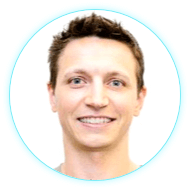
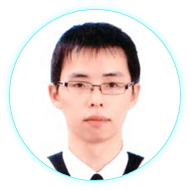
team update

diff --git a/stylesheets/style.min.css b/stylesheets/style.min.css
@@ -1,1 +1,1 @@
-html{font-family:PingFangSC, Microsoft JhengHei, sans-serif;-ms-text-size-adjust:100%;-webkit-text-size-adjust:100%}body{margin:0}article,aside,details,figcaption,figure,footer,header,hgroup,main,menu,nav,section,summary{display:block}audio,canvas,progress,video{display:inline-block;vertical-align:baseline}audio:not([controls]){display:none;height:0}[hidden],template{display:none}a{background-color:transparent}a:active,a:hover{outline:0}abbr[title]{border-bottom:1px dotted}b,strong{font-weight:bold}dfn{font-style:italic}h1{font-size:2em;margin:0.67em 0}mark{background:#ff0;color:#000}small{font-size:80%}sub,sup{font-size:75%;line-height:0;position:relative;vertical-align:baseline}sup{top:-0.5em}sub{bottom:-0.25em}img{border:0}svg:not(:root){overflow:hidden}figure{margin:1em 40px}hr{box-sizing:content-box;height:0}pre{overflow:auto}code,kbd,pre,samp{font-family:monospace, monospace;font-size:1em}button,input,optgroup,select,textarea{color:inherit;font:inherit;margin:0}button{overflow:visible}button,select{text-transform:none}button,html input[type="button"],input[type="reset"],input[type="submit"]{-webkit-appearance:button;cursor:pointer}button[disabled],html input[disabled]{cursor:default}button::-moz-focus-inner,input::-moz-focus-inner{border:0;padding:0}input{line-height:normal}input[type="checkbox"],input[type="radio"]{box-sizing:border-box;padding:0}input[type="number"]::-webkit-inner-spin-button,input[type="number"]::-webkit-outer-spin-button{height:auto}input[type="search"]{-webkit-appearance:textfield;box-sizing:content-box}input[type="search"]::-webkit-search-cancel-button,input[type="search"]::-webkit-search-decoration{-webkit-appearance:none}fieldset{border:1px solid #c0c0c0;margin:0 2px;padding:0.35em 0.625em 0.75em}legend{border:0;padding:0}textarea{overflow:auto}optgroup{font-weight:bold}table{border-collapse:collapse;border-spacing:0}td,th{padding:0}html,body{width:100%;min-width:320px;background-color:#eef2f5;-webkit-text-size-adjust:none;-webkit-overflow-scrolling:touch}body{color:#606060;font-size:14px;line-height:1.8}.wrap{padding-top:280px}.wrap>.cont{position:relative;width:100%;max-width:840px;margin:0 auto}.wrap>.cont>section{padding:0 30px 1.5em}.main-bg{position:absolute;top:0;left:0;width:100%;height:114vh;background:#000a29 url("../img/head.jpg") no-repeat center -20px/1000px 500px;overflow:hidden}.main-bg:before,.main-bg:after{content:"";width:100%;height:100%;position:absolute;top:1px;left:0}.main-bg:before{background:url("../img/head-star.png") no-repeat center top/1500px 750px;animation:head-star 12s linear infinite}.main-bg:after{background:url("../img/head-mask.png") no-repeat center bottom/812px 406px}.main-bg>h3{text-indent:100%;white-space:nowrap;width:98px;height:26px;background:url(../img/logo.svg) no-repeat 0 0/91px 24px;overflow:hidden;margin:0;position:absolute;top:15px;left:15px}.main-bg .lang{width:100%;max-width:840px;position:relative;z-index:1;margin:auto;text-align:right;font-size:12px;line-height:45px}.main-bg .lang.zh{text-align:right;font-size:13px}.main-bg .lang .en,.main-bg .lang.zh .zh{display:none}.main-bg .lang.zh .en{display:inline-block}.main-bg .lang a{width:45px;line-height:30px;height:30px;text-align:center;display:inline-block;text-align:center;color:#efefef;border-radius:2px;text-decoration:none;border:1px solid rgba(255,255,255,0.4);cursor:pointer;margin:0 10px}@keyframes head-star{0%{opacity:.2;transform:scale(0.8)}25%{opacity:.8;transform:scale(0.9)}50%{opacity:1;transform:scale(1)}75%{opacity:.6;transform:scale(1.1)}100%{opacity:.1;transform:scale(1.2)}}.main,.bottom-block{color:#fff}.main{position:relative}.main>.main-text{max-width:450px;margin:auto}.main h1{font-size:32px;font-weight:normal;line-height:1.42;text-align:center;text-shadow:0 0 1px rgba(255,255,255,0.5),0 1px 3px #5a3aa9;margin:0}.main h1>span{display:block}.main p{font-size:16px}.btn-group{display:flex;justify-content:space-between;max-width:350px;padding:.5em 0 1em;margin:0 auto}.btn-group>.Wpaper,.btn-group>.contact{color:#fff;font-size:16px;line-height:50px;text-decoration:none;text-align:center;width:160px;height:50px;border-radius:3px;-webkit-tap-highlight-color:transparent}.btn-group>.Wpaper{background-color:#ff5000;box-shadow:0 1px 1px rgba(0,0,0,0.4),0 2px 6px 0 rgba(0,0,0,0.4);position:relative}.btn-group>.Wpaper:before{content:"";width:100%;height:100%;background-image:linear-gradient(282deg, #ff8f00 0%, #ff5000 100%);border-radius:3px;position:absolute;top:0;left:0;transition:opacity 0.3s}.btn-group>.Wpaper:hover:before{opacity:0}.btn-group>.Wpaper>span{position:relative}.btn-group>.contact{background-color:transparent;box-shadow:0 0 0 1px #fff inset;margin-left:20px;transition:background-color 0.3s}.btn-group>.contact:hover{background-color:rgba(255,255,255,0.15)}.feature>.feature-item{min-height:112px;background-color:#fff;box-shadow:0 3px 12px 0 rgba(161,172,183,0.5);border-radius:8px;padding:10px 15px 10px 136px;position:relative}.feature>.feature-item+.feature-item{margin-top:1em}.feature>.feature-item>.f-icon{width:106px;height:119px;position:absolute;top:50%;left:15px;margin-top:-60px}.feature>.feature-item>h2{font-size:21px;color:#333;margin:0}.feature>.feature-item>p{text-align:left;margin:0}.about-ae>h2,.platform-text>h2,.team>h2{color:#0db0c9;font-size:24px;text-align:center;margin:.5em 0}.about-ae{max-width:750px;margin:auto}.stream-vid{overflow:hidden;box-shadow:0 3px 12px 0 rgba(161,172,183,0.5);margin-bottom:1.5em;position:relative;z-index:2}.video-box{height:0;background-color:#444;padding-bottom:45.2381%}.video-box>.ae-logo{width:130px;filter:drop-shadow(0px 1px 2px rgba(0,0,0,0.5));position:absolute;top:10px;left:10px}.video-box>video{width:100%;position:absolute;left:0;bottom:0}.logo-ae-uwin{max-width:550px;height:229px;display:flex;flex-direction:column;justify-content:center;margin:0 auto;position:relative;z-index:1}.logo-ae-uwin:before{content:"";width:100%;height:340px;background:url("../img/poly-01.png") no-repeat center/360px 335px;position:absolute;top:-70px;left:0;z-index:-1}.logo-ae-uwin>img{display:block;margin:20px auto}.platform{position:relative;z-index:2}.platform>.device{width:100%;object-fit:contain}.platform-text{padding-top:1.5em}.platform-text strong{color:#0d2c46}.platform-text>.ico-list{display:flex;justify-content:space-between;max-width:360px;padding-left:0;margin:1em auto}.platform-text>.ico-list>li{width:45px;height:45px;border-radius:50%;display:flex;justify-content:center;align-items:center;background-color:#fff;border:solid 1px rgba(81,229,243,0.7);box-shadow:0 0 8px 0 rgba(103,240,255,0.6)}.platform-text>.ico-list>.etc{color:#50b7cc;width:100px;background-color:transparent;border:0;box-shadow:none}.exchange{position:relative;margin-bottom:25px}.exchange .bg-wave{width:100%}.exchange .exc{position:absolute;width:310px;height:80px;top:50%;left:50%;border-radius:8px;transform:translateX(-50%) translateY(-50%);background:rgba(255,255,255,0.9) url(../img/exchange.png) center/85% no-repeat;box-shadow:0 2px 3px 0 rgba(159,159,159,0.2),0 5px 30px 0 rgba(163,195,221,0.5)}.team{width:100%;max-width:840px;margin:0 auto}.team .team-member{width:100%;display:flex;flex-wrap:wrap;justify-content:space-between;margin-bottom:50px}.team .team-item{text-align:center;width:100%;margin-bottom:30px}.team .team-item h3{font-size:21px;font-weight:normal;margin:0;line-height:1.1;color:#333}.team .team-item p{margin:0;font-size:14px;color:#606060}.ptr-logos{position:relative;display:block;width:100%;max-width:840px;margin:0 auto}.bottom-block{color:#fff;background:url("../img/footer-bg.png") no-repeat center bottom/1100px 502px}.bottom-block>.bottom-cont{text-align:center;max-width:840px;padding:1.5em 30px 0;margin:0 auto}.bottom-block>.bottom-cont>.footer-icon{vertical-align:top;width:200px;height:205px}.bottom-block>.bottom-cont>h2{font-size:20px;text-align:left}.bottom-block>.copy{color:rgba(255,255,255,0.8);font-weight:100;text-align:center;width:100%;padding:15px 0}@media screen and (max-width: 320px){.main-bg{height:126vh}.platform-text>.ico-list{margin:1em -20px}}@media screen and (min-width: 400px){.bottom-block>.bottom-cont{padding-bottom:2.5em}.exchange .exc{width:350px;height:90px}}@media screen and (min-width: 480px){.wrap{padding-top:190px}.main-bg{height:186vh;background-size:700px 350px}.main-bg .lang{line-height:60px}.main h1>span{display:inline}.feature>.feature-item{padding:15px 15px 15px 136px}.platform{text-align:center}.platform>.device{max-width:500px}.platform-text>p{text-align:left}.bottom-block{background-size:1000px 456px}.exchange .exc{width:525px;height:135px}.team .team-item{width:calc(100% / 3)}}@media screen and (min-width: 820px){.main-bg{height:0;padding-bottom:82%}.main-bg:after{background-size:100% auto}}@media screen and (min-width: 1024px){h2{font-weight:normal}.main-bg{background-position:center top;background-size:90% auto}.main-bg>h3{width:117px;height:31px;background-size:117px 31px;top:20px;left:50%;margin-left:-420px}.wrap{padding-top:26.5%}.wrap>.cont{max-width:840px}.wrap>.cont>section{padding:0 0 3.5em}.main h1{text-shadow:0 0 1px rgba(255,255,255,0.5),0 0 4px rgba(90,58,169,0.6)}.main p{font-weight:300}.feature{display:flex;justify-content:space-between}.feature>.feature-item{text-align:center;width:200px;padding:40px 25px}.feature>.feature-item+.feature-item{margin-top:0}.feature>.feature-item>.f-icon{vertical-align:top;margin-top:0;position:initial}.feature>.feature-item>h2{margin:14px 0}.stream-vid{max-width:840px;border-radius:8px;margin:0 0 1.5em}.cont>section.logo-ae-uwin{padding:1.5em 0 .5em}.logo-ae-uwin:before{background-size:501px 466px;height:466px;top:-120px}.platform{display:flex;justify-content:space-between}.bottom-block{background-size:1200px 548px}.bottom-block>.bottom-cont>.footer-icon{width:300px;height:307px}.bottom-block>.bottom-cont>h2{font-size:24px;text-align:center;margin:5px 0 55px 0}.bottom-block>.bottom-cont>h2>span{display:block}}@media screen and (min-width: 600px) and (max-width: 1024px) and (orientation: portrait){.main-bg{height:70vh}}@media screen and (min-width: 1200px){.main-bg{padding-bottom:1000px}.cont>section.main{padding-bottom:1.5em}.bottom-block{background-size:cover}.bottom-block>.bottom-cont{padding-bottom:310px}}@media screen and (min-width: 1366px){.main-bg:before{background-size:cover}}@media screen and (min-width: 2000px){body{max-width:1920px;margin:0 auto}}
+html{font-family:PingFangSC, Microsoft JhengHei, sans-serif;-ms-text-size-adjust:100%;-webkit-text-size-adjust:100%}body{margin:0}article,aside,details,figcaption,figure,footer,header,hgroup,main,menu,nav,section,summary{display:block}audio,canvas,progress,video{display:inline-block;vertical-align:baseline}audio:not([controls]){display:none;height:0}[hidden],template{display:none}a{background-color:transparent}a:active,a:hover{outline:0}abbr[title]{border-bottom:1px dotted}b,strong{font-weight:bold}dfn{font-style:italic}h1{font-size:2em;margin:0.67em 0}mark{background:#ff0;color:#000}small{font-size:80%}sub,sup{font-size:75%;line-height:0;position:relative;vertical-align:baseline}sup{top:-0.5em}sub{bottom:-0.25em}img{border:0}svg:not(:root){overflow:hidden}figure{margin:1em 40px}hr{box-sizing:content-box;height:0}pre{overflow:auto}code,kbd,pre,samp{font-family:monospace, monospace;font-size:1em}button,input,optgroup,select,textarea{color:inherit;font:inherit;margin:0}button{overflow:visible}button,select{text-transform:none}button,html input[type="button"],input[type="reset"],input[type="submit"]{-webkit-appearance:button;cursor:pointer}button[disabled],html input[disabled]{cursor:default}button::-moz-focus-inner,input::-moz-focus-inner{border:0;padding:0}input{line-height:normal}input[type="checkbox"],input[type="radio"]{box-sizing:border-box;padding:0}input[type="number"]::-webkit-inner-spin-button,input[type="number"]::-webkit-outer-spin-button{height:auto}input[type="search"]{-webkit-appearance:textfield;box-sizing:content-box}input[type="search"]::-webkit-search-cancel-button,input[type="search"]::-webkit-search-decoration{-webkit-appearance:none}fieldset{border:1px solid #c0c0c0;margin:0 2px;padding:0.35em 0.625em 0.75em}legend{border:0;padding:0}textarea{overflow:auto}optgroup{font-weight:bold}table{border-collapse:collapse;border-spacing:0}td,th{padding:0}html,body{width:100%;min-width:320px;background-color:#eef2f5;-webkit-text-size-adjust:none;-webkit-overflow-scrolling:touch}body{color:#606060;font-size:14px;line-height:1.8}.wrap{padding-top:280px}.wrap>.cont{position:relative;width:100%;max-width:840px;margin:0 auto}.wrap>.cont>section{padding:0 30px 1.5em}.main-bg{position:absolute;top:0;left:0;width:100%;height:114vh;background:#000a29 url("../img/head.jpg") no-repeat center -20px/1000px 500px;overflow:hidden}.main-bg:before,.main-bg:after{content:"";width:100%;height:100%;position:absolute;top:1px;left:0}.main-bg:before{background:url("../img/head-star.png") no-repeat center top/1500px 750px;animation:head-star 12s linear infinite}.main-bg:after{background:url("../img/head-mask.png") no-repeat center bottom/812px 406px}.main-bg>h3{text-indent:100%;white-space:nowrap;width:98px;height:26px;background:url(../img/logo.svg) no-repeat 0 0/91px 24px;overflow:hidden;margin:0;position:absolute;top:15px;left:15px}.main-bg .lang{width:100%;max-width:840px;position:relative;z-index:1;margin:auto;text-align:right;font-size:12px;line-height:45px}.main-bg .lang.zh{text-align:right;font-size:13px}.main-bg .lang .en,.main-bg .lang.zh .zh{display:none}.main-bg .lang.zh .en{display:inline-block}.main-bg .lang a{width:45px;line-height:30px;height:30px;text-align:center;display:inline-block;text-align:center;color:#efefef;border-radius:2px;text-decoration:none;border:1px solid rgba(255,255,255,0.4);cursor:pointer;margin:0 10px}@keyframes head-star{0%{opacity:.2;transform:scale(0.8)}25%{opacity:.8;transform:scale(0.9)}50%{opacity:1;transform:scale(1)}75%{opacity:.6;transform:scale(1.1)}100%{opacity:.1;transform:scale(1.2)}}.main,.bottom-block{color:#fff}.main{position:relative}.main>.main-text{max-width:450px;margin:auto}.main h1{font-size:32px;font-weight:normal;line-height:1.42;text-align:center;text-shadow:0 0 1px rgba(255,255,255,0.5),0 1px 3px #5a3aa9;margin:0}.main h1>span{display:block}.main p{font-size:16px}.btn-group{display:flex;justify-content:space-between;max-width:350px;padding:.5em 0 1em;margin:0 auto}.btn-group>.Wpaper,.btn-group>.contact{color:#fff;font-size:16px;line-height:50px;text-decoration:none;text-align:center;width:160px;height:50px;border-radius:3px;-webkit-tap-highlight-color:transparent}.btn-group>.Wpaper{background-color:#ff5000;box-shadow:0 1px 1px rgba(0,0,0,0.4),0 2px 6px 0 rgba(0,0,0,0.4);position:relative}.btn-group>.Wpaper:before{content:"";width:100%;height:100%;background-image:linear-gradient(282deg, #ff8f00 0%, #ff5000 100%);border-radius:3px;position:absolute;top:0;left:0;transition:opacity 0.3s}.btn-group>.Wpaper:hover:before{opacity:0}.btn-group>.Wpaper>span{position:relative}.btn-group>.contact{background-color:transparent;box-shadow:0 0 0 1px #fff inset;margin-left:20px;transition:background-color 0.3s}.btn-group>.contact:hover{background-color:rgba(255,255,255,0.15)}.feature>.feature-item{min-height:112px;background-color:#fff;box-shadow:0 3px 12px 0 rgba(161,172,183,0.5);border-radius:8px;padding:10px 15px 10px 136px;position:relative}.feature>.feature-item+.feature-item{margin-top:1em}.feature>.feature-item>.f-icon{width:106px;height:119px;position:absolute;top:50%;left:15px;margin-top:-60px}.feature>.feature-item>h2{font-size:21px;color:#333;margin:0}.feature>.feature-item>p{text-align:left;margin:0}.about-ae>h2,.platform-text>h2,.team>h2{color:#0db0c9;font-size:24px;text-align:center;margin:.5em 0}.about-ae{max-width:750px;margin:auto}.stream-vid{overflow:hidden;box-shadow:0 3px 12px 0 rgba(161,172,183,0.5);margin-bottom:1.5em;position:relative;z-index:2}.video-box{height:0;background-color:#444;padding-bottom:45.2381%}.video-box>.ae-logo{width:130px;filter:drop-shadow(0px 1px 2px rgba(0,0,0,0.5));position:absolute;top:10px;left:10px}.video-box>video{width:100%;position:absolute;left:0;bottom:0}.logo-ae-uwin{max-width:550px;height:229px;display:flex;flex-direction:column;justify-content:center;margin:0 auto;position:relative;z-index:1}.logo-ae-uwin:before{content:"";width:100%;height:340px;background:url("../img/poly-01.png") no-repeat center/360px 335px;position:absolute;top:-70px;left:0;z-index:-1}.logo-ae-uwin>img{display:block;margin:20px auto}.platform{position:relative;z-index:2}.platform>.device{width:100%;object-fit:contain}.platform-text{padding-top:1.5em}.platform-text strong{color:#0d2c46}.platform-text>.ico-list{display:flex;justify-content:space-between;max-width:360px;padding-left:0;margin:1em auto}.platform-text>.ico-list>li{width:45px;height:45px;border-radius:50%;display:flex;justify-content:center;align-items:center;background-color:#fff;border:solid 1px rgba(81,229,243,0.7);box-shadow:0 0 8px 0 rgba(103,240,255,0.6)}.platform-text>.ico-list>.etc{color:#50b7cc;width:100px;background-color:transparent;border:0;box-shadow:none}.exchange{position:relative;margin-bottom:25px}.exchange .bg-wave{width:100%}.exchange .exc{position:absolute;width:310px;height:80px;top:50%;left:50%;border-radius:8px;transform:translateX(-50%) translateY(-50%);background:rgba(255,255,255,0.9) url(../img/exchange.png) center/85% no-repeat;box-shadow:0 2px 3px 0 rgba(159,159,159,0.2),0 5px 30px 0 rgba(163,195,221,0.5)}.team{width:100%;max-width:840px;margin:0 auto}.team .team-member{width:100%;display:flex;flex-wrap:wrap;justify-content:space-between;margin-bottom:50px}.team .team-item{text-align:center;width:100%;margin-bottom:30px}.team .team-item h3{font-size:21px;font-weight:normal;margin:0;line-height:1.1;color:#333}.team .team-item p{margin:0;font-size:14px;color:#606060}.team .team-item .team-pic{max-width:180px}.ptr-logos{position:relative;display:block;width:100%;max-width:840px;margin:0 auto}.bottom-block{color:#fff;background:url("../img/footer-bg.png") no-repeat center bottom/1100px 502px}.bottom-block>.bottom-cont{text-align:center;max-width:840px;padding:1.5em 30px 0;margin:0 auto}.bottom-block>.bottom-cont>.footer-icon{vertical-align:top;width:200px;height:205px}.bottom-block>.bottom-cont>h2{font-size:20px;text-align:left}.bottom-block>.copy{color:rgba(255,255,255,0.8);font-weight:100;text-align:center;width:100%;padding:15px 0}@media screen and (max-width: 320px){.main-bg{height:126vh}.platform-text>.ico-list{margin:1em -20px}}@media screen and (min-width: 400px){.bottom-block>.bottom-cont{padding-bottom:2.5em}.exchange .exc{width:350px;height:90px}}@media screen and (min-width: 480px){.wrap{padding-top:190px}.main-bg{height:186vh;background-size:700px 350px}.main-bg .lang{line-height:60px}.main h1>span{display:inline}.feature>.feature-item{padding:15px 15px 15px 136px}.platform{text-align:center}.platform>.device{max-width:500px}.platform-text>p{text-align:left}.bottom-block{background-size:1000px 456px}.exchange .exc{width:525px;height:135px}.team .team-item{width:calc(100% / 3)}.team .team-item.team-ceo{width:100%}.team .team-item.team-ceo .team-pic{max-width:240px}.team .team-item.team-ceo h3{font-size:21px}.team .team-item.team-ceo p{font-size:14px}}@media screen and (min-width: 820px){.main-bg{height:0;padding-bottom:82%}.main-bg:after{background-size:100% auto}}@media screen and (min-width: 1024px){h2{font-weight:normal}.main-bg{background-position:center top;background-size:90% auto}.main-bg>h3{width:117px;height:31px;background-size:117px 31px;top:20px;left:50%;margin-left:-420px}.wrap{padding-top:26.5%}.wrap>.cont{max-width:840px}.wrap>.cont>section{padding:0 0 3.5em}.main h1{text-shadow:0 0 1px rgba(255,255,255,0.5),0 0 4px rgba(90,58,169,0.6)}.main p{font-weight:300}.feature{display:flex;justify-content:space-between}.feature>.feature-item{text-align:center;width:200px;padding:40px 25px}.feature>.feature-item+.feature-item{margin-top:0}.feature>.feature-item>.f-icon{vertical-align:top;margin-top:0;position:initial}.feature>.feature-item>h2{margin:14px 0}.stream-vid{max-width:840px;border-radius:8px;margin:0 0 1.5em}.cont>section.logo-ae-uwin{padding:1.5em 0 .5em}.logo-ae-uwin:before{background-size:501px 466px;height:466px;top:-120px}.platform{display:flex;justify-content:space-between}.bottom-block{background-size:1200px 548px}.bottom-block>.bottom-cont>.footer-icon{width:300px;height:307px}.bottom-block>.bottom-cont>h2{font-size:24px;text-align:center;margin:5px 0 55px 0}.bottom-block>.bottom-cont>h2>span{display:block}}@media screen and (min-width: 600px) and (max-width: 1024px) and (orientation: portrait){.main-bg{height:70vh}}@media screen and (min-width: 1200px){.main-bg{padding-bottom:1000px}.cont>section.main{padding-bottom:1.5em}.bottom-block{background-size:cover}.bottom-block>.bottom-cont{padding-bottom:310px}}@media screen and (min-width: 1366px){.main-bg:before{background-size:cover}}@media screen and (min-width: 2000px){body{max-width:1920px;margin:0 auto}}

diff --git a/js/i18n.js b/js/i18n.js
@@ -19,12 +19,14 @@ var i18n = {
 		prodsubbold: 'AE UWIN 将允许玩家使用任何加密货币，玩家们不需要担心货币的转换及转换率的损失。',
 		top10: '... 前10虚拟币',
 		teamtitle: '核心团队',
-		team01: 'Jerry Liu',
-		team01jt: 'Founder & CEO',
-		team02: 'Dmitry Kisyluk',
-		team02jt: 'Business Development',
-		team03: 'Ruben Ortega',
-		team03jt: 'Head of Media',
+		teamceo: 'Frank Chiu',
+		teamceojt: 'CEO',
+		team01: 'Felix Lin',
+		team01jt: 'Team Lead',
+		team02: 'Simon Huang',
+		team02jt: 'Developer, Backend',
+		team03: 'Hank Liang',
+		team03jt: 'Developer, Frontend',
 		invite: '我们希望让 AE 游戏投注平台及加密货币持续成长，<strong>因此我们在此邀请您成为我们的伙伴，共同分享我们的成功。',
 		copy: '&copy; 2018 AE UWIN all rights reserved.'
 	},
@@ -48,12 +50,14 @@ var i18n = {
 		prodsubbold: 'AE UWIN will allow players to use any cryptocurrency, relieving players of the worries about currency conversion and loss related to the conversion rate.',
 		top10: '... Top10 Crypto',
 		teamtitle: 'Core Team',
-		team01: 'Jerry Liu',
-		team01jt: 'Founder & CEO',
-		team02: 'Dmitry Kisyluk',
-		team02jt: 'Business Development',
-		team03: 'Ruben Ortega',
-		team03jt: 'Head of Media',
+		teamceo: 'Frank Chiu',
+		teamceojt: 'CEO',
+		team01: 'Felix Lin',
+		team01jt: 'Team Lead',
+		team02: 'Simon Huang',
+		team02jt: 'Developer, Backend',
+		team03: 'Hank Liang',
+		team03jt: 'Developer, Frontend',
 		invite: 'We hope to sustain the continuous growth of our gaming and betting platform along with the rapid growth of the cryptocurrency. To that end, <strong>we hereby sincerely invite you to partner with us and share our success.',
 		copy: '&copy; 2018 AE UWIN all rights reserved.'
 	}

diff --git a/index.html b/index.html
@@ -95,18 +95,25 @@
 <section class="team">
 	<h2 text="teamtitle"></h2>
 	<div class="team-member">
+		
+		<div class="team-item team-ceo">
+			<img src="img/ceo.png" class="team-pic">
+			<h3 text="teamceo"></h3>
+			<p text="teamceojt"></p>
+		</div>
+
 		<div class="team-item">
-			<img src="img/team-01.png" class="team-m01">
+			<img src="img/team-01.png" class="team-pic">
 			<h3 text="team01"></h3>
 			<p text="team01jt"></p>
 		</div>
 		<div class="team-item">
-			<img src="img/team-02.png" class="team-m01">
+			<img src="img/team-02.png" class="team-pic">
 			<h3 text="team02"></h3>
 			<p text="team02jt"></p>
 		</div>
 		<div class="team-item">
-			<img src="img/team-03.png" class="team-m01">
+			<img src="img/team-03.png" class="team-pic">
 			<h3 text="team03"></h3>
 			<p text="team03jt"></p>
 		</div>

diff --git a/sass/style.scss b/sass/style.scss
@@ -397,6 +397,9 @@ body {
 			font-size: 14px;
 			color: #606060;
 		}
+		.team-pic {
+			max-width: 180px;
+		}
 	}
 }
 .ptr-logos {
@@ -474,6 +477,18 @@ body {
 	.team {
 		.team-item {
 			width: calc(100% / 3);
+			&.team-ceo {
+				width: 100%;
+				.team-pic {
+					max-width: 240px
+				}
+				h3 {
+					font-size: 21px;
+				}
+				p {
+					font-size: 14px;
+				}
+			}
 		}
 	}
 }
